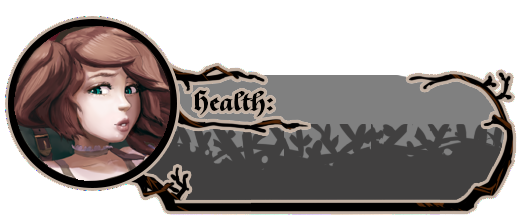
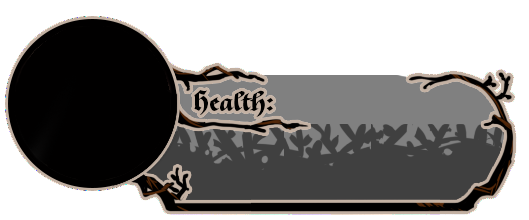
Fixed world map fadeout.

Changed region(s): [[0.0, 0.1091, 0.3327, 0.8455]]

diff --git a/core/src/com/majalis/screens/AbstractScreen.java b/core/src/com/majalis/screens/AbstractScreen.java
@@ -55,7 +55,15 @@ public abstract class AbstractScreen extends Stage3D implements Screen {
  
     // Subclasses must load actors in this method
     public abstract void buildStage();
-    protected boolean doesFade() { return true; }
+    protected void switchFade(ScreenEnum screenRequest, AbstractScreen currentScreen, AssetEnum oldMusicPath, Music oldMusic) { 
+    	this.addAction(Actions.sequence(Actions.fadeOut(.2f), Actions.hide(), new Action() {
+			@Override
+			public boolean act(float delta) {
+				switchScreen(screenRequest, currentScreen, oldMusicPath, oldMusic);
+				return true;
+			}
+		}));     	
+    }
     
     public void showScreen(ScreenEnum screenRequest) {
     	if (switchingScreen) return;
@@ -65,20 +73,10 @@ public abstract class AbstractScreen extends Stage3D implements Screen {
     	
         AssetEnum oldMusicPath = currentScreen.getMusicPath();
         Music oldMusic = currentScreen.getMusic();
-        
-        Action doneAction = new Action() {
-			@Override
-			public boolean act(float delta) {
-				switchScreen(screenRequest, currentScreen, oldMusicPath, oldMusic);
-				return true;
-			}
-    	};
-        if (doesFade()) this.addAction(Actions.sequence(Actions.fadeOut(.2f), Actions.hide(), doneAction));
-        else switchScreen(screenRequest, currentScreen, oldMusicPath, oldMusic);
-    	
+        switchFade(screenRequest, currentScreen, oldMusicPath, oldMusic);
     }  
     
-    private void switchScreen(ScreenEnum screenRequest, AbstractScreen currentScreen, AssetEnum oldMusicPath, Music oldMusic) {
+    protected void switchScreen(ScreenEnum screenRequest, AbstractScreen currentScreen, AssetEnum oldMusicPath, Music oldMusic) {
 		AbstractScreen newScreen = screenFactory.getScreen(screenRequest);
 		// Show new screen
     	newScreen.buildStage();

diff --git a/core/src/com/majalis/screens/SplashScreen.java b/core/src/com/majalis/screens/SplashScreen.java
@@ -3,6 +3,7 @@ package com.majalis.screens;
 import com.badlogic.gdx.Gdx;
 import com.badlogic.gdx.assets.AssetDescriptor;
 import com.badlogic.gdx.assets.AssetManager;
+import com.badlogic.gdx.audio.Music;
 import com.badlogic.gdx.audio.Sound;
 import com.badlogic.gdx.graphics.Color;
 import com.badlogic.gdx.graphics.OrthographicCamera;
@@ -29,8 +30,9 @@ public class SplashScreen extends AbstractScreen {
 		this.fullLoad = fullLoad;
 		clocktick = 0;
 	}
+	
 	@Override
-	protected boolean doesFade() { return false; }
+	protected void switchFade(ScreenEnum screenRequest, AbstractScreen currentScreen, AssetEnum oldMusicPath, Music oldMusic) { switchScreen(screenRequest, currentScreen, oldMusicPath, oldMusic); }
 	
 	@Override
 	public void buildStage() {

diff --git a/core/src/com/majalis/screens/LoadScreen.java b/core/src/com/majalis/screens/LoadScreen.java
@@ -1,5 +1,6 @@
 package com.majalis.screens;
 
+import com.badlogic.gdx.audio.Music;
 import com.badlogic.gdx.graphics.Color;
 import com.badlogic.gdx.graphics.g2d.BitmapFont;
 import com.badlogic.gdx.scenes.scene2d.actions.Actions;
@@ -35,7 +36,7 @@ public class LoadScreen extends AbstractScreen {
 		loadingImage.setScale(.25f);
 	}
 	@Override
-	protected boolean doesFade() { return false; }
+	protected void switchFade(ScreenEnum screenRequest, AbstractScreen currentScreen, AssetEnum oldMusicPath, Music oldMusic) { switchScreen(screenRequest, currentScreen, oldMusicPath, oldMusic); }
 	
 	@Override
 	public void render(float delta) {

diff --git a/core/src/com/majalis/screens/WorldMapScreen.java b/core/src/com/majalis/screens/WorldMapScreen.java
@@ -1335,6 +1335,13 @@ public class WorldMapScreen extends AbstractScreen {
         uiStage.getViewport().update(width, height, false);
         cloudStage.getViewport().update(width, height, false);
     }
+    
+    @Override
+	protected void switchFade(ScreenEnum screenRequest, AbstractScreen currentScreen, AssetEnum oldMusicPath, Music oldMusic) { 
+    	super.switchFade(screenRequest, currentScreen, oldMusicPath, oldMusic);
+    	uiStage.addAction(fadeOut(.2f));
+    	cloudStage.addAction(fadeOut(.2f));
+    }
 	
 	@Override
 	public void dispose() {
